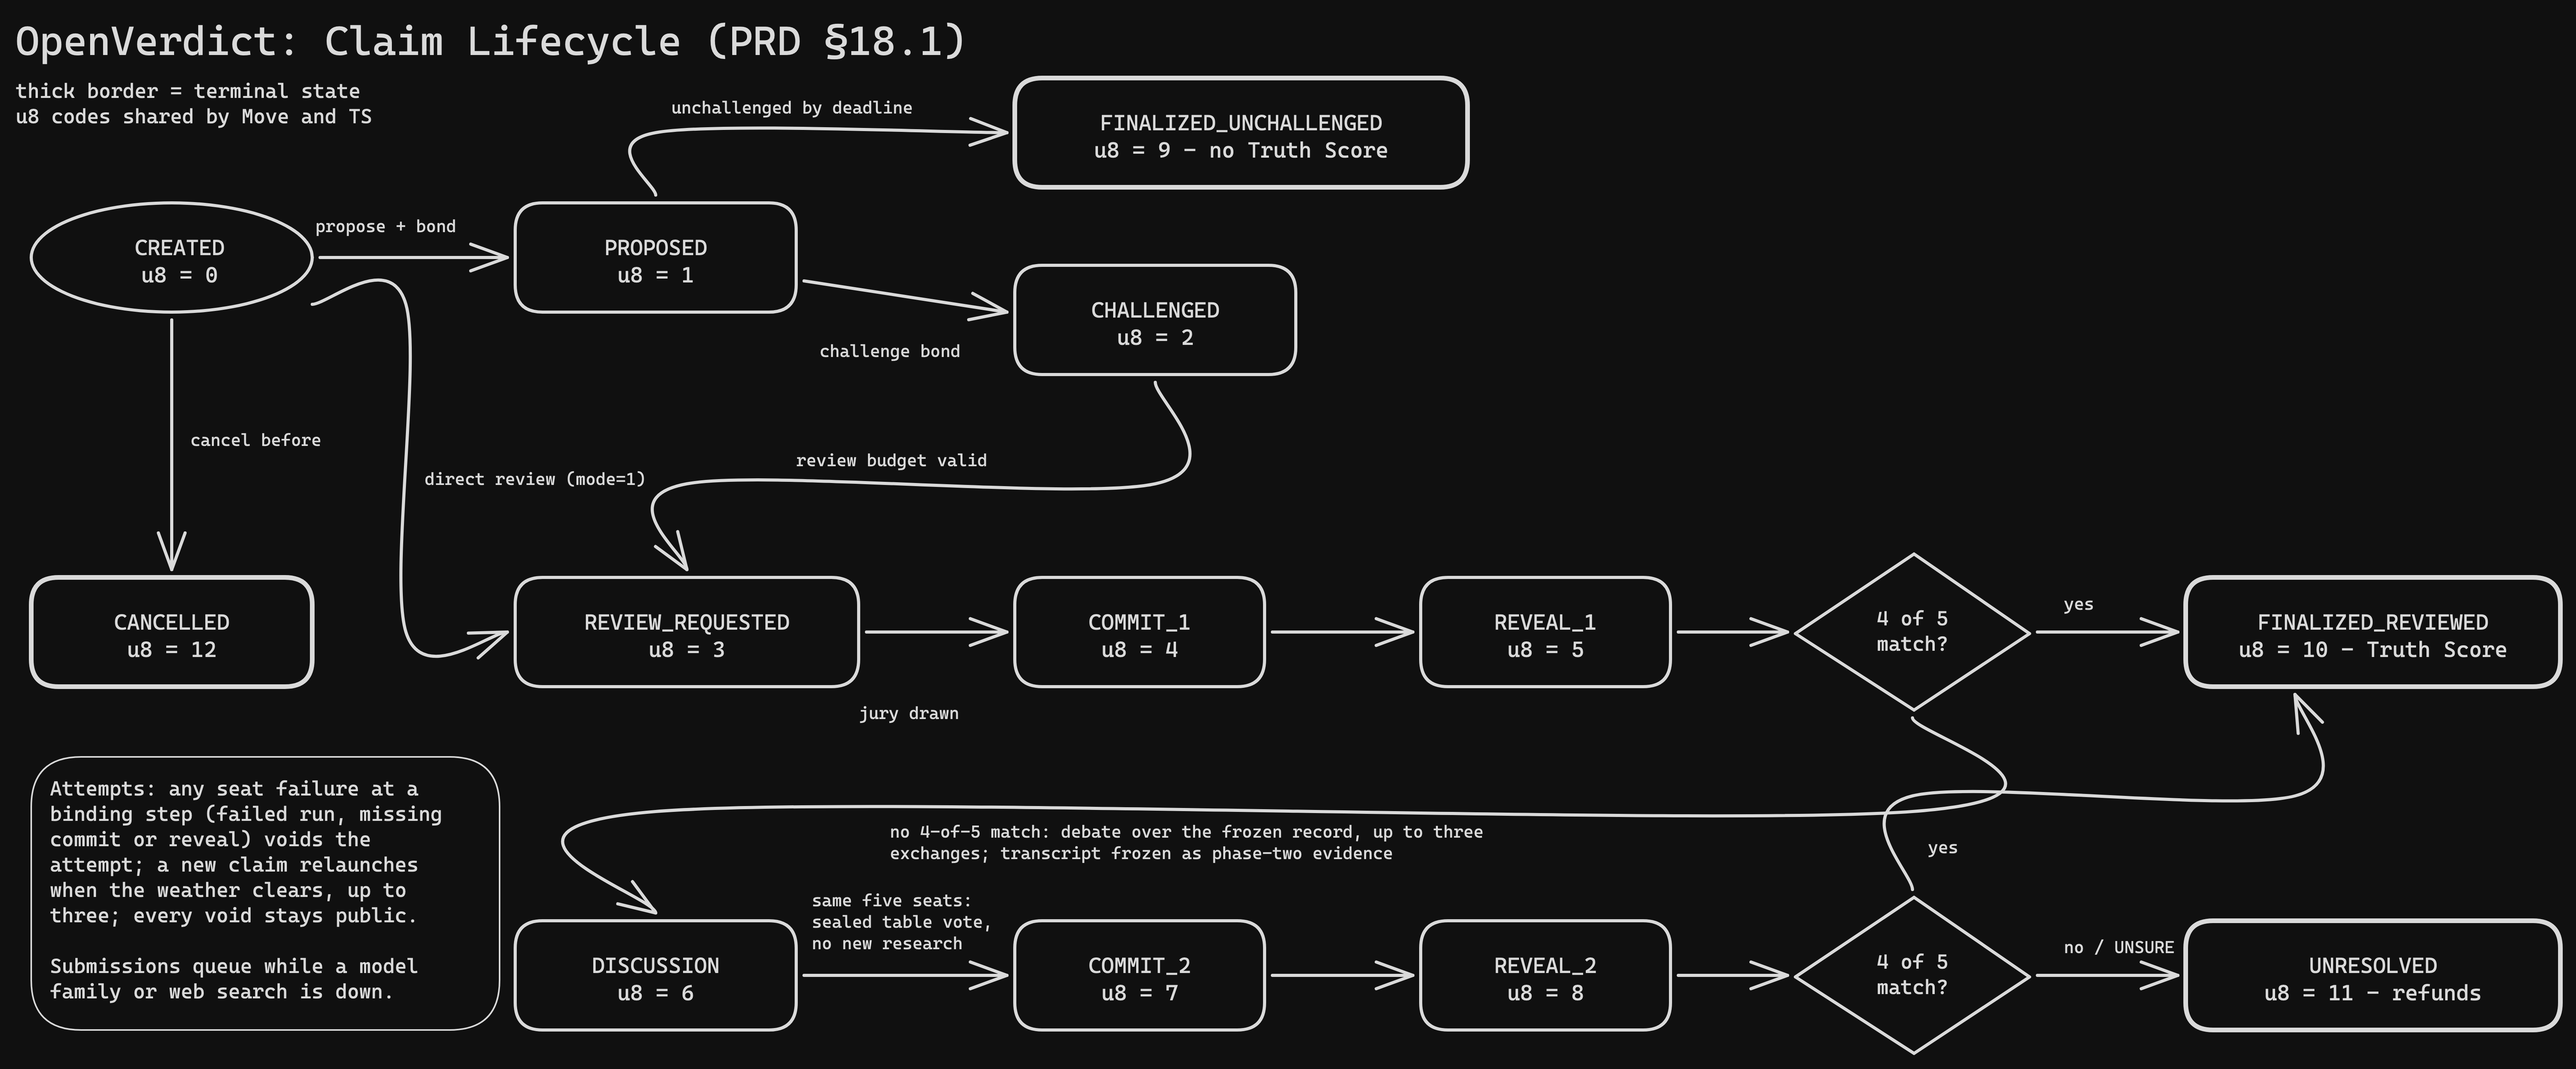
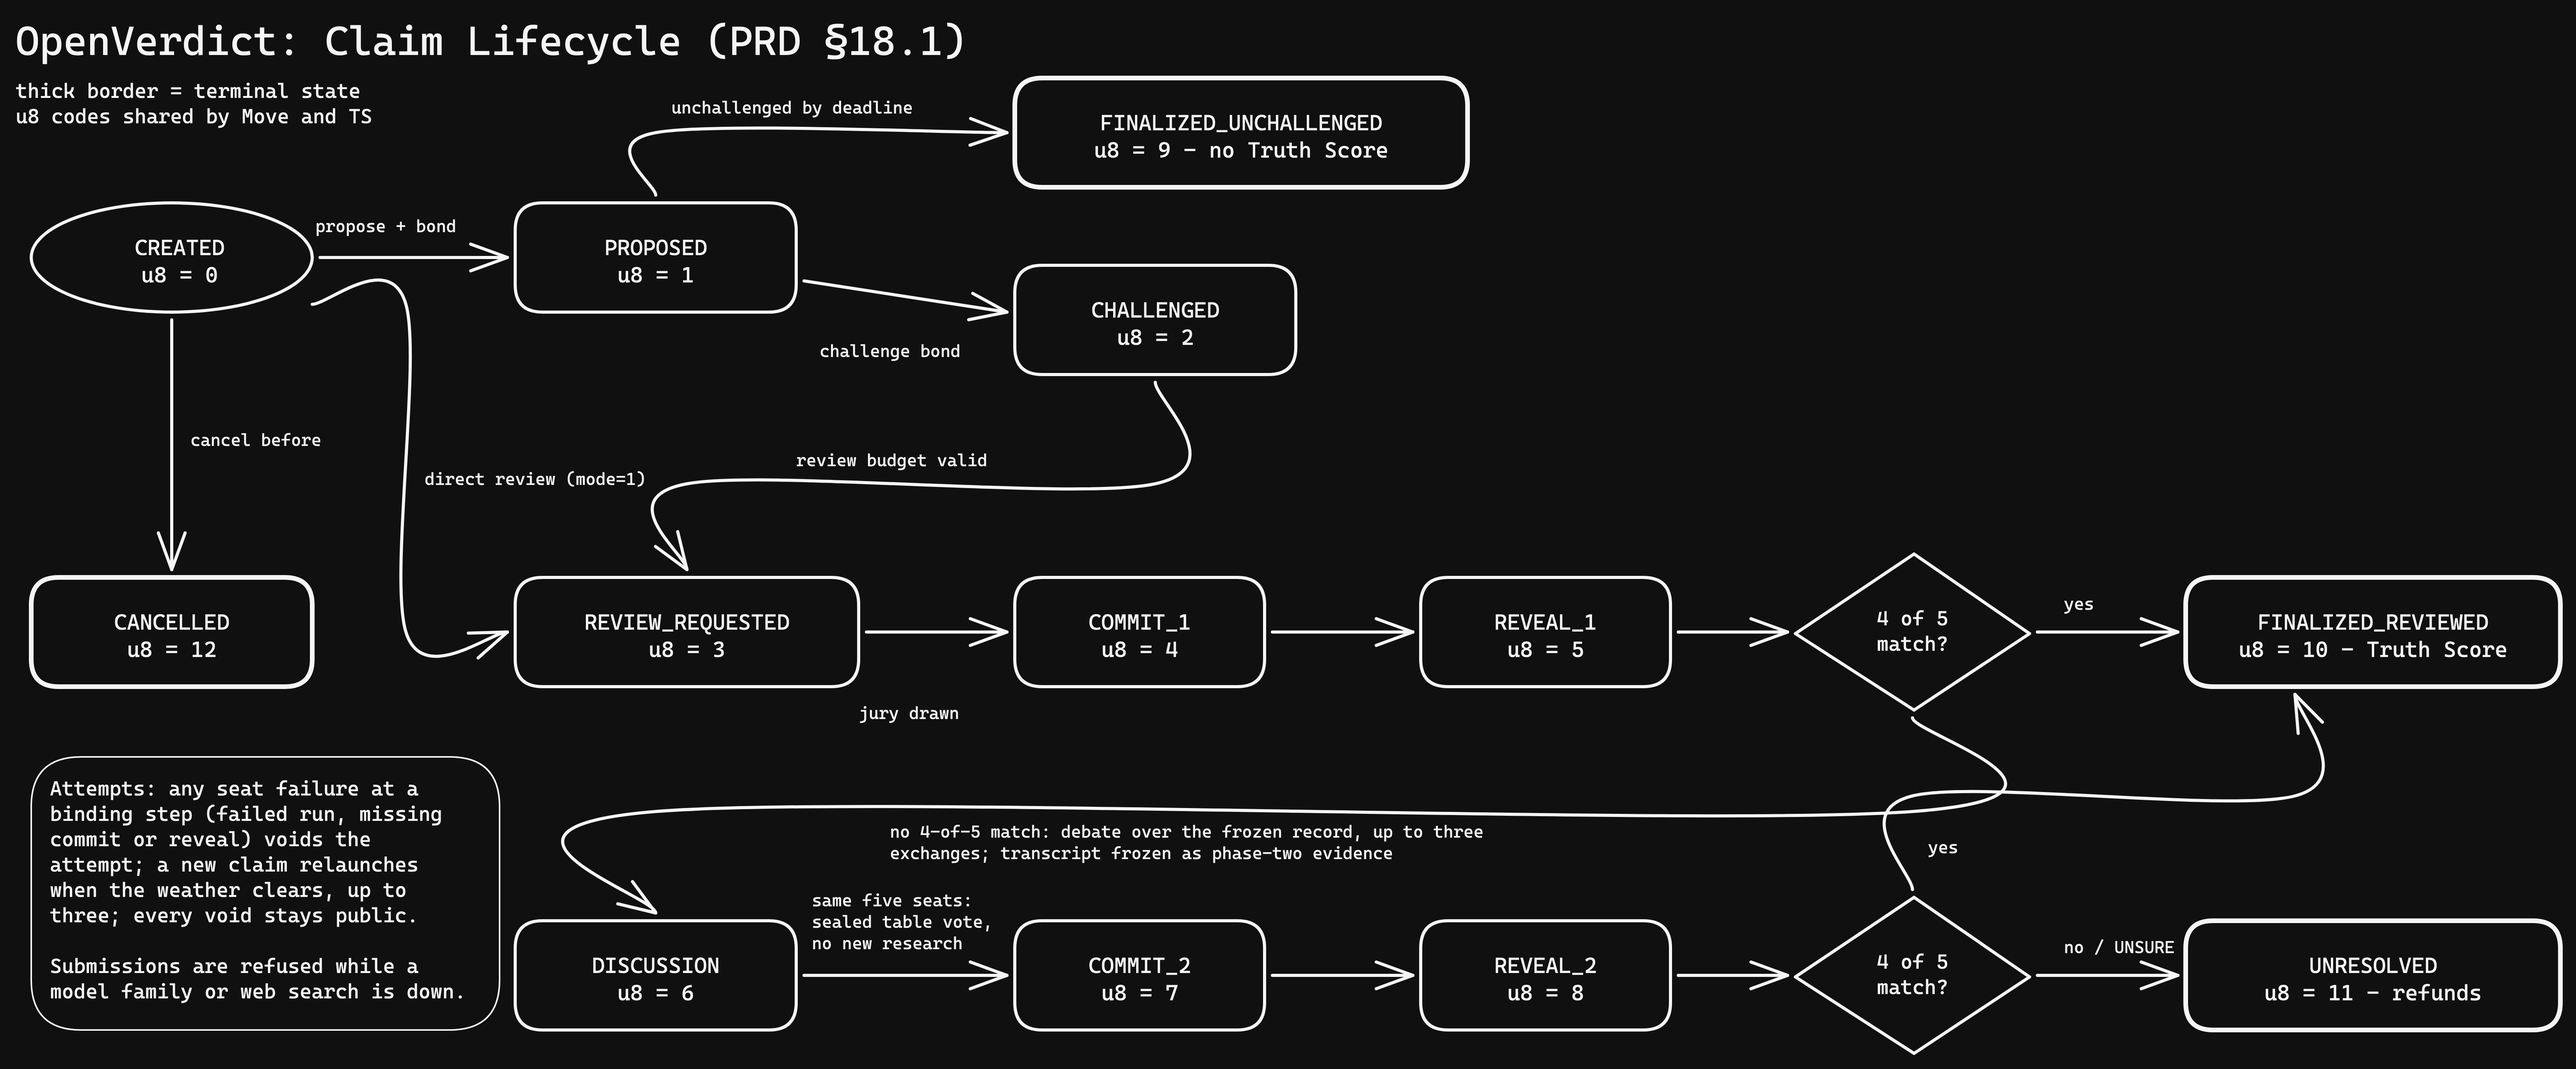
docs(diagrams): the architecture section says what the product does today
The README sentence no longer claims a restarted dashboard rebuilds its
timeline from chain: the dashboard is a read-only projection of the
append-only event log and holds no signer, and anyone can recompute a
verdict from Sui, Walrus and the public API with the auditor or the
served skill. The diagrams: submissions are refused (not queued) in bad
weather, until every active model family answers, with the degraded
mode the operator can set on chain; the CLI box is the universal agent
skill with the full command list; the dashboard box names the Chat and
Graph views and the guarded public writes; the citation rule names pages
the juror opened. PNGs re-exported at the same scale with the same dark
inversion (owner: "fix it so it is accurate").

Claude-Session: https://claude.ai/code/session_012xRV9z14guVqZhYXV6UEAP

diff --git a/README.md b/README.md
@@ -165,8 +165,11 @@ process); the five seats form the **committee**, and **4 of 5** is the
 </picture>
 
 The engine is headless-first: the complete lifecycle runs through the CLI with
-the dashboard offline, and a restarted dashboard reconstructs the same public
-timeline from Sui objects, Walrus artifacts, and the resolution event stream.
+the dashboard offline. The dashboard is a read-only projection of the
+append-only resolution event log and holds no signer, and anyone can recompute
+a verdict from Sui objects, Walrus artifacts and the public API without it,
+with `pnpm ov audit <link>` or the agent skill served at
+[`/SKILL.md`](https://app.openverdict.info/SKILL.md).
 
 ### Claim lifecycle
 
